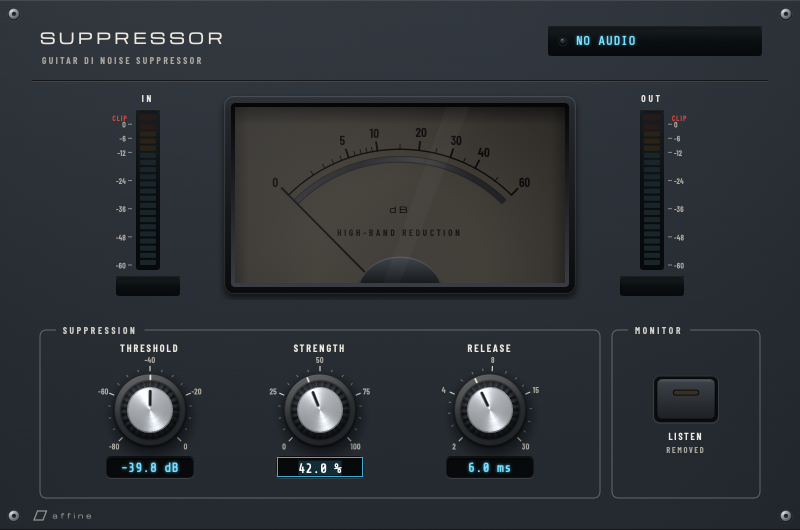
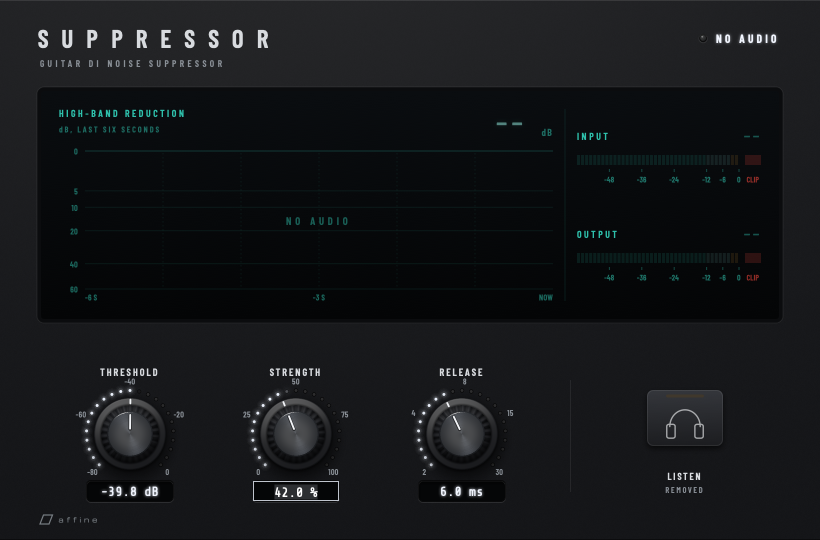
Document the Stealth interface and refresh screenshots
Describe the Stealth layout, displays and states in the UI design notes and
the README, and replace the screenshots with captures from the UI tests.

diff --git a/docs/UI_DESIGN.md b/docs/UI_DESIGN.md
@@ -1,11 +1,11 @@
 # Suppressor interface
 
 The editor implements the shared [Affine design language](../libs/affine-ui/DESIGN_LANGUAGE.md)
-(v1.0) through the vendored `affine_ui` JUCE module. This document records only the
-Suppressor-specific decisions.
+(v2.0) in its **Stealth** finish through the vendored `affine_ui` JUCE module. This
+document records only the Suppressor-specific decisions.
 
 <p align="center">
-  <img src="images/suppressor-ui.png" alt="Suppressor suppressing: live input and output ladders, backlit high-band reduction meter near 40 dB, and the three suppression knobs" width="800">
+  <img src="images/suppressor-ui.png" alt="Suppressor in the Stealth finish: a matte black panel with a teal screen plotting six seconds of high-band reduction between plucked notes, input and output bar meters, three knobs with white LED rings and a Listen soft key" width="800">
 </p>
 
 ## Product
@@ -14,19 +14,18 @@ Suppressor-specific decisions.
   high-gain amplification.
 - **Primary task:** remove high-band noise between notes without losing body, sustain or
   pick attack, and check what was removed when in doubt.
-- **Finish:** graphite anodising, glacier-cyan emission, an incandescent meter card.
-- **Editor:** fixed 800 × 530 logical pixels; renders natively at 100–200% and on Retina.
+- **Finish:** modern matte hardware: black powder coat, dark knobs with white pointers
+  and white LED rings, a rubber soft key, and one colour screen. Teal appears only on the
+  screen and the *Suppressing* LED.
+- **Editor:** fixed 820 × 540 logical pixels; renders natively at 100–200% and on Retina.
 
 ## Layout
 
-The signal runs left to right across the meter bridge, and the controls sit below it.
-
 | Zone | Contents |
 |---|---|
-| Header | Wordmark; processing-status display with lamp; *Host settings active* lamp underneath when non-default legacy settings exist |
-| Meter bridge | **IN** peak ladder → backlit **reduction** meter → **OUT** peak ladder (relabelled **REMOVED** while auditioning), each ladder with a clip cell and a peak readout |
-| Suppression frame | Threshold, Strength, Release: medium knobs with calibrated scales and glass readouts |
-| Monitor frame | *Listen removed* latching key with an amber LED |
+| Header | Wide-tracked wordmark and descriptor; the processing status with its LED; *Host settings active* underneath when non-default legacy settings exist |
+| Screen | Left: **high-band reduction** over the last six seconds, with the current value above the plot. Right: **INPUT** and **OUTPUT** peak bars (the output relabelled **REMOVED** while auditioning), each with a readout and a clip cell |
+| Controls | Threshold, Strength, Release: medium knobs with LED rings and glass readouts; after a hairline, *Listen removed* as a soft key with a headphones glyph |
 
 ## Telemetry contract
 
@@ -36,28 +35,30 @@ Listen and band-mode settings, so an old block is never relabelled as the new mo
 
 | Display | Source | Presentation |
 |---|---|---|
-| IN / OUT ladders | Peak across channels, 300 ms decay | −60 to 0 dBFS in 3 dB segments: cyan, amber from −12 dBFS, red from −3 dBFS |
-| Clip cells | Processor clip flags, held for one second | Separate red cell above each column |
+| Reduction plot | Deepest high-band gain reduction, 120 ms decay, sampled 30 times a second while the editor is open | 0–60 dB on a square-root scale, 0 dB at the top, newest at the right; the plot breaks wherever reduction was unavailable (no audio, no input, learning) and reads *NO AUDIO* once six seconds hold no readings |
+| Reduction readout | The latest reading | dB to 0.1, `60+` beyond the scale, `--` when unavailable |
+| INPUT / OUTPUT bars | Peak across channels, 300 ms decay | −60 to 0 dBFS in 1.5 dB segments: teal, pale from −12 dBFS, amber from −3 dBFS |
+| Clip cells | Processor clip flags, held for one second | Separate red cell at the end of each bar |
 | Peak readouts | Same peaks | dBFS to 0.1 dB, `-inf` for silence, `--` when not live |
-| Reduction meter | Deepest high-band gain reduction, 120 ms decay | 0–60 dB on a square-root scale so small reductions stay readable; lamp dims and needle rests when reduction is unavailable (no audio, no input, learning) |
 | Status | Snapshot flags | *No audio*, *No input*, *Passing signal*, *Suppressing*, *Listening to difference*, *Bypassed*, *Learning bands* |
 
-The needle's spring-damper ballistics (about 300 ms to settle) are presentation only.
+The plot shows stored readings only: nothing is interpolated across gaps or extrapolated
+past the newest reading.
 
 ## States
 
 | State | Presentation |
 |---|---|
-| Suppressing | Cyan status lamp, needle on the reduction, ladders live |
-| Listen removed | Amber key LED and status, **REMOVED** legend and amber readout on the output column |
-| Multiband topology | Meter caption reads **MAX BAND REDUCTION**; Threshold and Strength are disabled (veiled) because that mode uses its own splits and learned thresholds |
-| Learning bands | Amber status; reduction marked unavailable, so the meter lamp dims |
-| Bypassed | Needle at rest with the lamp lit (no reduction is applied) |
-| Stopped audio | Lamp dims, needle rests, ladders dark, readouts `--` |
+| Suppressing | Teal status LED, the plot follows the reduction, bars live |
+| Listen removed | Amber LED strip on the key and amber status LED; the output bar reads **REMOVED** in amber |
+| Multiband topology | The plot title reads **MAX BAND REDUCTION**; Threshold and Strength are disabled (their rings go dark) because that mode uses its own splits and learned thresholds |
+| Learning bands | Amber status LED; reduction is unavailable, so the plot breaks |
+| Bypassed | Red status LED; the plot runs along 0 dB (no reduction is applied) |
+| Stopped audio | Status LED off, bars dark, readouts `--`, the plot breaks |
 
 <p align="center">
-  <img src="images/suppressor-delta-audition.png" alt="Listening to the removed signal: amber status, lit Listen key and REMOVED output column" width="400">
-  <img src="images/suppressor-learning.png" alt="Learning bands in multiband mode: amber status, dimmed meter, disabled Threshold and Strength, host settings lamp" width="400">
+  <img src="images/suppressor-delta-audition.png" alt="Listening to the removed signal: amber status LED and key strip, output bar relabelled REMOVED in amber" width="400">
+  <img src="images/suppressor-learning.png" alt="Learning bands in multiband mode: amber status LED, plot titled MAX BAND REDUCTION, disabled Threshold and Strength, host settings line" width="400">
 </p>
 
 ## Parameter contract
@@ -65,7 +66,7 @@ The needle's spring-damper ballistics (about 300 ms to settle) are presentation 
 Unchanged: all 20 parameters keep their IDs, order, version hints, ranges, defaults,
 tapers, text conversion and automation. The editor exposes Threshold, Strength, Release
 and Delta Audition; the remaining engine settings stay available in the host's parameter
-view and are summarised by the *Host settings active* lamp's tooltip.
+view and are summarised by the *Host settings active* tooltip.
 
 ## Interaction
 
@@ -86,10 +87,10 @@ view and are summarised by the *Host settings active* lamp's tooltip.
 
 - Every control exposes its parameter name, formatted value with unit, and a description.
 - The *Signal meters* label carries a live summary (input and output dBFS, reduction or
-  why it is unavailable, clip warnings); the per-column readouts are hidden from assistive
+  why it is unavailable, clip warnings); the screen itself is hidden from assistive
   technology so values are not announced twice.
-- State is never colour-only: every lamp has a text legend and every mode change has a
-  printed or displayed label.
+- State is never colour-only: the status is always spelled out next to its LED, and
+  every mode change has a printed or displayed label.
 - Printed text meets 4.5:1 on the plate, including its darker lower edge; emitted
   colours meet 4.5:1 on display glass. Both are unit-tested.
 
@@ -102,4 +103,6 @@ view and are summarised by the *Host settings active* lamp's tooltip.
 - The DSP suite is unchanged and passes.
 - pluginval 1.0.4 at strictness 10 reports `SUCCESS` for the VST3.
 - With `SUPPRESSOR_UI_CAPTURE_DIR` set, the UI tests write a PNG of every state and scale;
-  CI uploads them for macOS, Windows and Linux.
+  before the main capture they play six seconds of plucked notes at real-time pace, so
+  the plot shows readings the processor produced. CI uploads the captures for macOS,
+  Windows and Linux.

diff --git a/README.md b/README.md
@@ -8,7 +8,7 @@ body alone. Formats: **VST3** and **CLAP** (Windows, macOS, Linux).
 [![CI](https://github.com/affinedsp/suppressor/actions/workflows/ci.yml/badge.svg)](https://github.com/affinedsp/suppressor/actions/workflows/ci.yml)
 
 <p align="center">
-  <img src="docs/images/suppressor-ui.png" alt="Suppressor: input and output LED ladders around a backlit high-band reduction meter, with Threshold, Strength and Release knobs and a Listen removed key" width="800">
+  <img src="docs/images/suppressor-ui.png" alt="Suppressor in the Stealth finish: a screen plotting six seconds of high-band reduction beside input and output bar meters, with Threshold, Strength and Release knobs and a Listen key" width="800">
 </p>
 
 ## What it does
@@ -37,13 +37,14 @@ biquads plus an envelope per channel).
 | **Release** | Sets how quickly suppression returns after a note (2–30 ms). Increase it to preserve tails. |
 | **Listen removed** | Auditions input minus processed audio; switch it off to hear the processed signal. This difference includes filter phase effects, not just noise. |
 
-The **IN** and **OUT** ladders show **peak dBFS**, each with a clip cell held for
-one second. The backlit meter shows **high-band gain reduction**, not
-whole-signal loudness loss; in multiband sessions it shows the deepest band
-reduction. While *Listen removed* is on, the output column is relabelled
-**REMOVED**. Bypass, silence, learning, and stopped audio are labelled
-explicitly, and stopped meters go dark (the meter lamp dims and the needle
-rests) instead of holding stale readings.
+The screen plots **high-band gain reduction** over the last six seconds, not
+whole-signal loudness loss, with the current value above the plot; in multiband
+sessions it shows the deepest band reduction. The **INPUT** and **OUTPUT** bars
+show **peak dBFS** with a readout, each with a clip cell held for one second.
+While *Listen removed* is on, the output bar is relabelled **REMOVED**. Bypass,
+silence, learning, and stopped audio are labelled explicitly; the plot breaks
+wherever there was no reading, and stopped bars go dark instead of holding
+stale readings.
 
 Drag a knob to adjust; **Shift-drag** for fine control, **double-click / Return**
 for exact entry in its readout, and **Alt/Option-click / Home** to reset.
